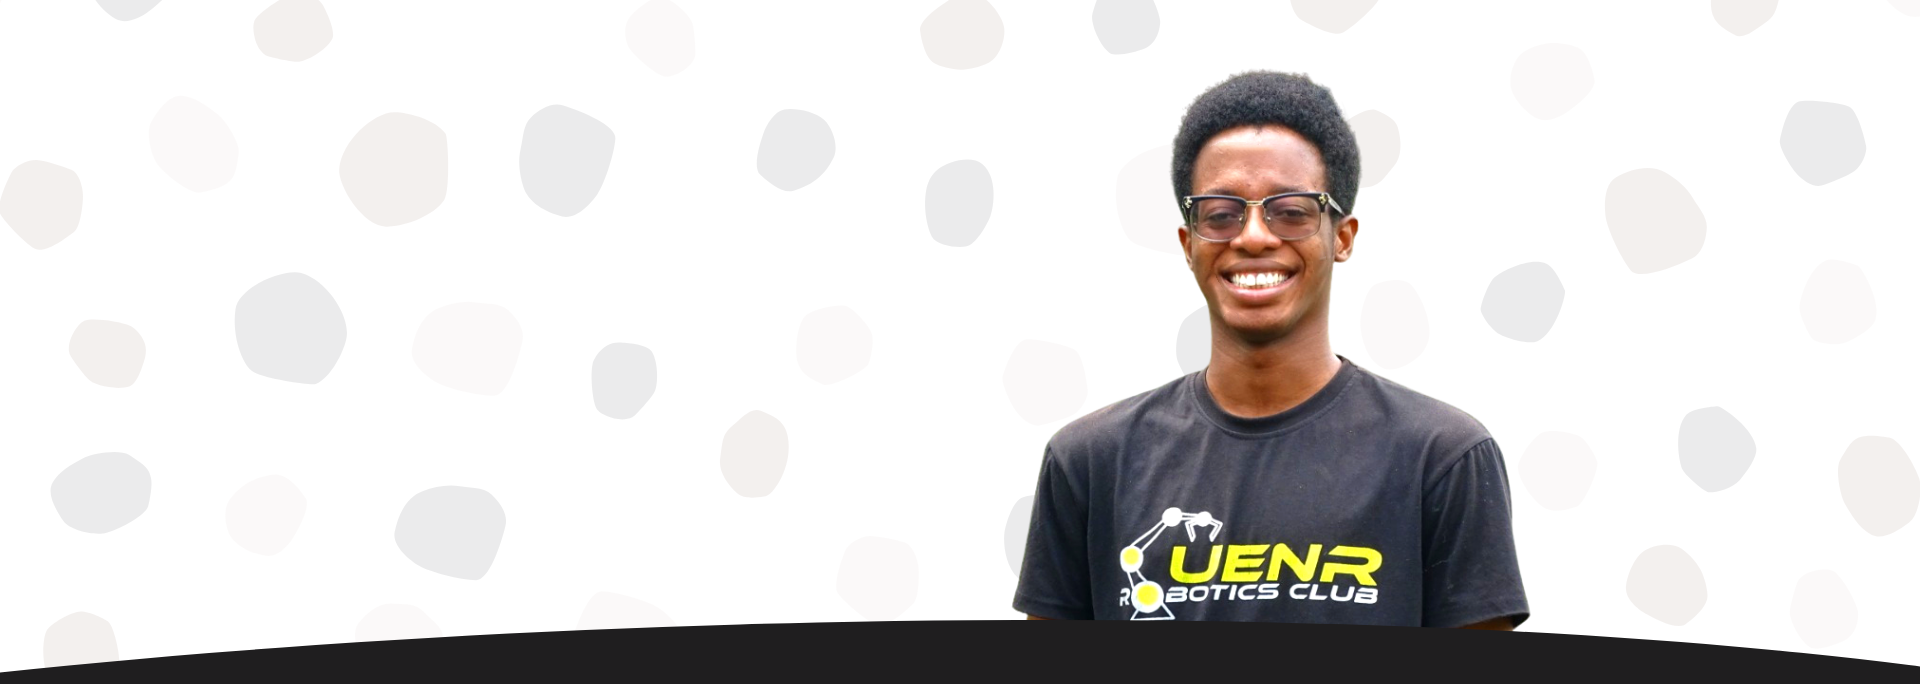
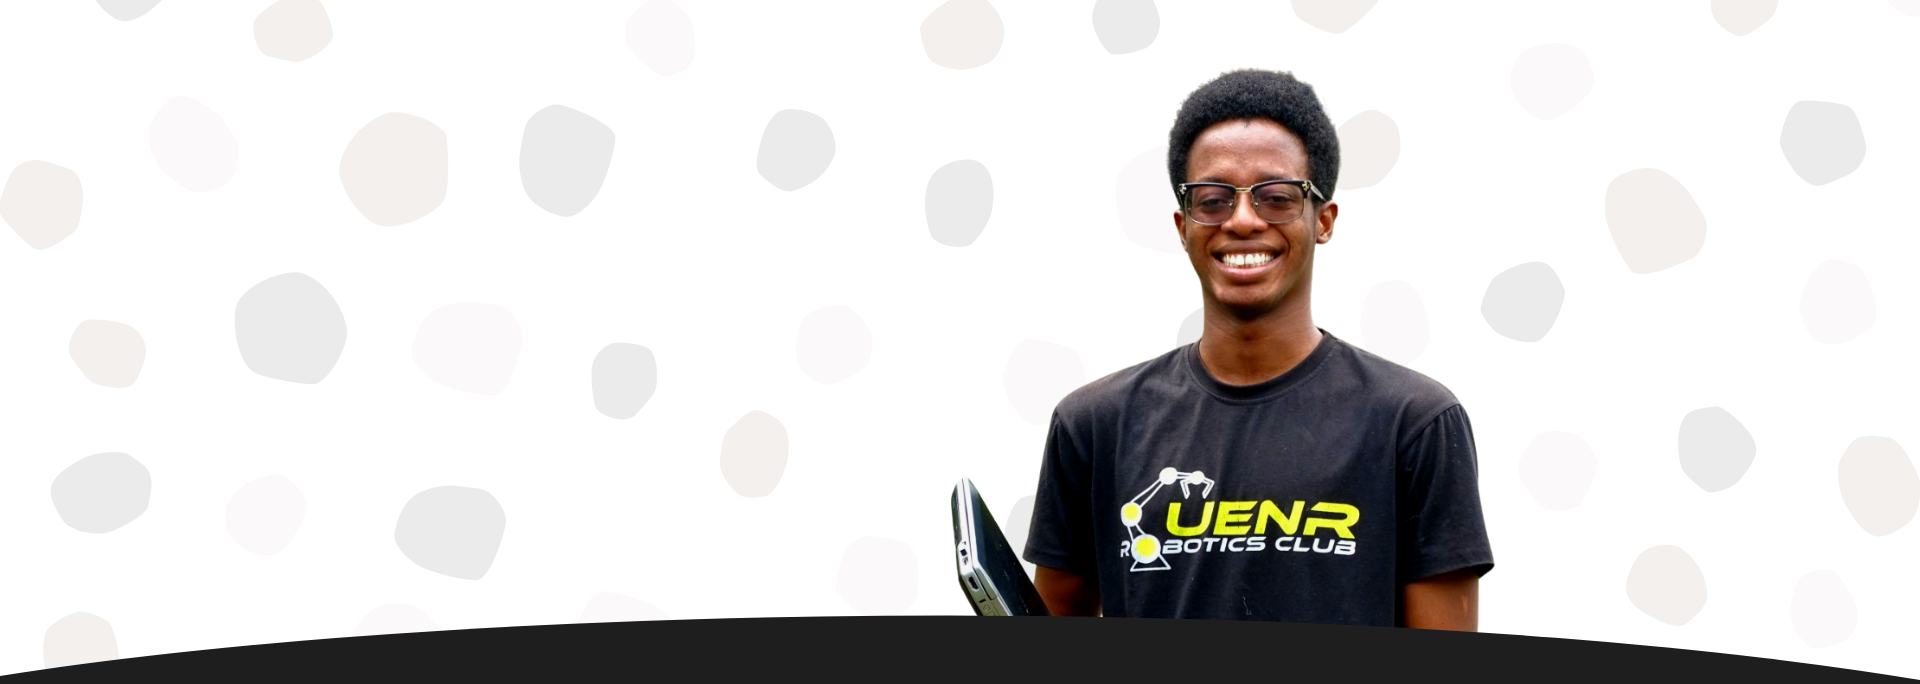
changed hero image and phone view

Changed region(s): [[0.0625, 0.0921, 0.9062, 0.9825], [0.9062, 0.9518, 1.0, 1.0]]

diff --git a/css/style.css b/css/style.css
@@ -2134,4 +2134,11 @@ color: #1f1e1f;
   .blog__details__quote {
     padding: 30px 40px 35px 35px;
   }
+
+  .set-bg {
+    background-repeat: no-repeat;
+    background-size: cover;
+    background-position: top left;
+  }
+  
 }
